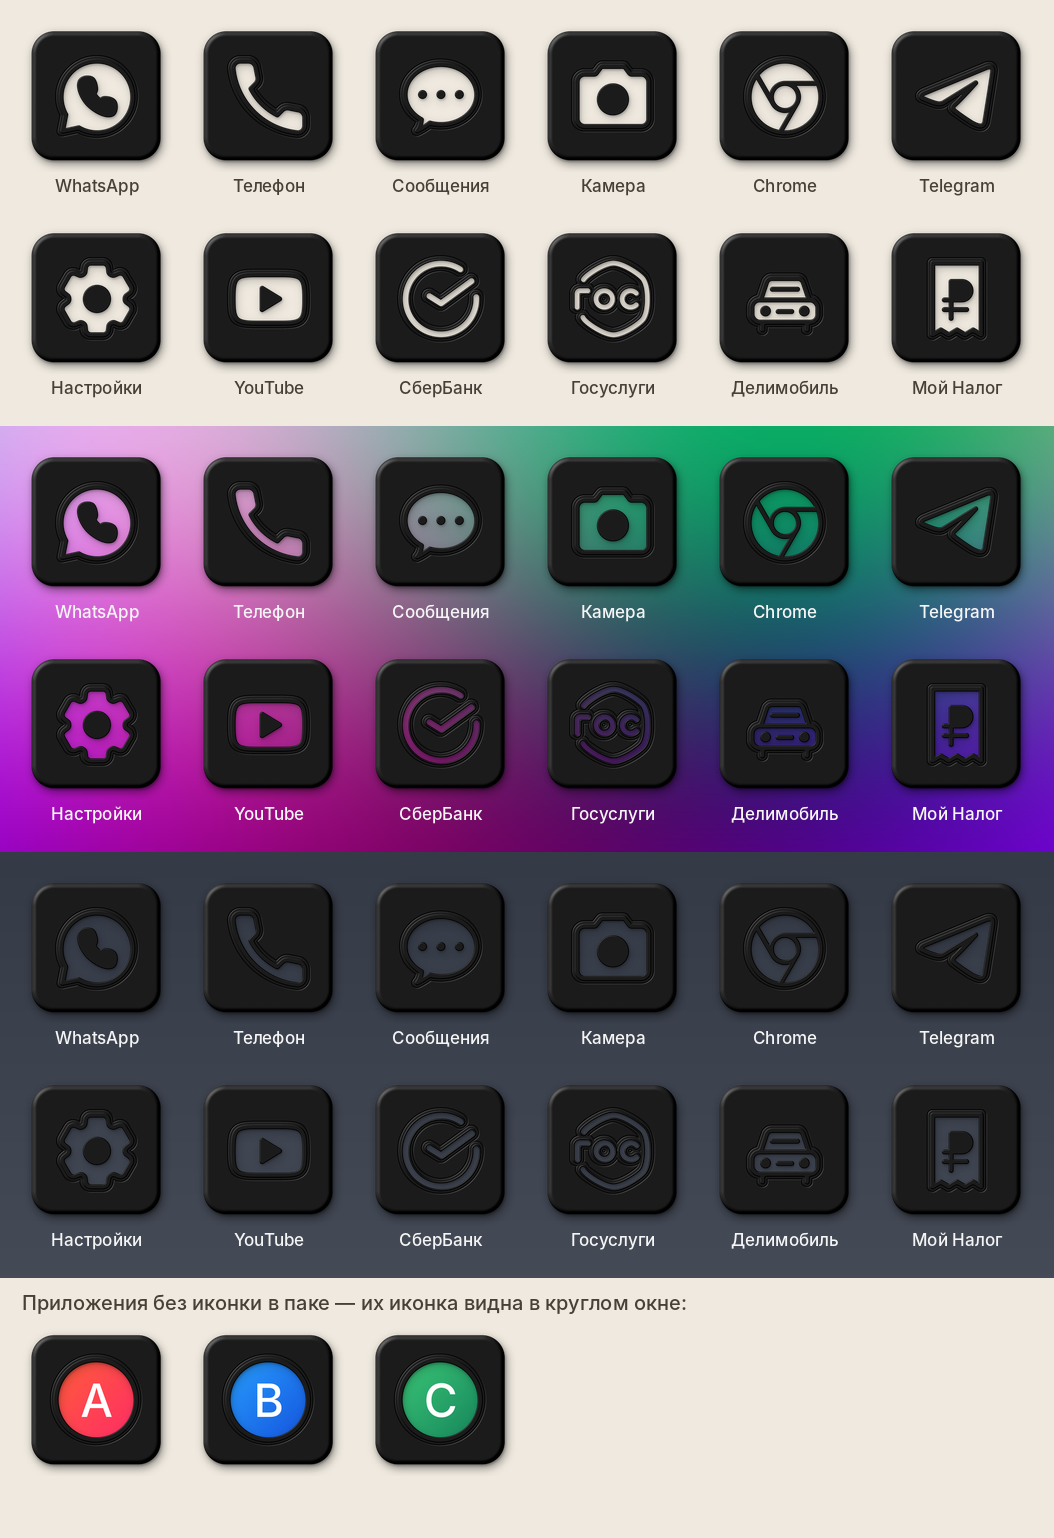
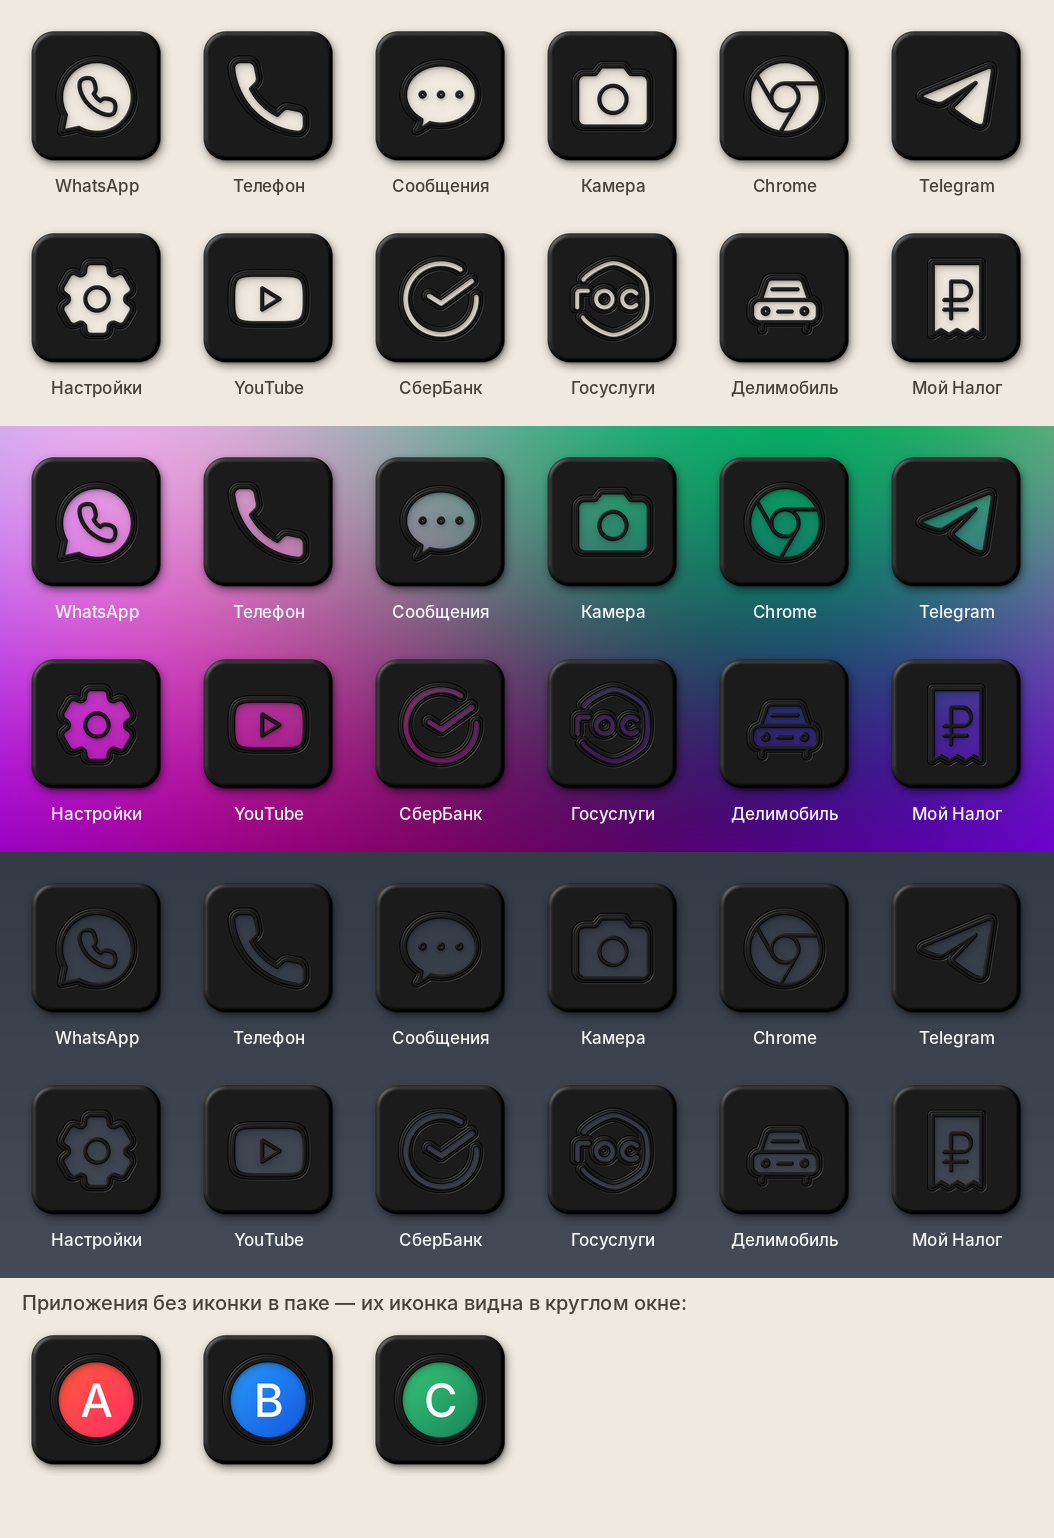
Noir: thinner lines, nested shapes as thin see-through outlines [skip ci]
Line weight 0.7 of Lawnicons; every enclosed area is a hole, so the
WhatsApp handset, camera lens, gear centre etc. are thin outlines
instead of solid blobs. Stencil threshold 0.5 hole/stroke.

Claude-Session: https://claude.ai/code/session_01TTZygDqZcvFS4wFVRUaD4t

diff --git a/tools/style_noir.py b/tools/style_noir.py
@@ -1,24 +1,20 @@
 """"Noir" style: a thick black matte slab with the glyph cut through it.
 
-Modelled on the owner's reference (black tile, see-through bubble, black
-handset floating in it): the glyph's enclosed areas are holes through the slab,
-so the wallpaper shows through them; the outline around a hole is raised black,
-shapes nested inside a hole are raised black again, and a thin engraved groove
+Modelled on the owner's reference (black tile, see-through bubble, thin black
+handset floating in it): every area the glyph's outlines enclose is a hole
+through the slab, so the wallpaper shows through it; the outlines themselves,
+nested ones included, stay as thin raised black lines, and an engraved groove
 follows the glyph's silhouette.  The slab floats above the wallpaper, so its
 shadow falls outside the tile and, through the holes, on the wallpaper inside.
 
-Lawnicons glyphs are outlines, so holes come from nesting depth: regions
-enclosed by one outline are holes, regions enclosed again inside a hole are
-slab, and so on.  Glyphs without enclosed areas (open strokes, letters) get
-their strokes cut out as a stencil inside a raised rim.
+Glyphs without real enclosed areas (open strokes, lettering with tiny counters)
+get their strokes cut out as a stencil inside a raised rim.
 
 style(svg_text, name, out_size) -> PIL RGBA, plus back()/upon()/mask() for
 apps without an icon (their icon shows through a round window).
 """
 
 from __future__ import annotations
-
-from collections import deque
 
 import numpy as np
 from scipy import ndimage
@@ -29,69 +25,26 @@ BLACK = 27.0
 TILE = dict(half=0.43, r=0.15, cx=CX - 0.006 * S, cy=CY - 0.008 * S)
 
 
-def nesting(g, k=2, thr=0.5):
-    """Background regions of the glyph at odd and at even (>=2) nesting depth."""
-    small = g.reshape(S // k, k, S // k, k).mean(axis=(1, 3)) > thr
-    strokes, ns = ndimage.label(small)
-    bg, nb = ndimage.label(~small)
-    border = np.concatenate([bg[0], bg[-1], bg[:, 0], bg[:, -1]])
-    border = border[border > 0]
-    empty = np.zeros((S, S), bool)
-    if not border.size:
-        return empty, empty
-    outside = np.bincount(border).argmax()
-    adj_b = {b: set() for b in range(1, nb + 1)}
-    adj_s = {s: set() for s in range(1, ns + 1)}
-    H, W = small.shape
-    for b, sl in enumerate(ndimage.find_objects(bg), 1):
-        if sl is None:
-            continue
-        y0, y1 = max(sl[0].start - 3, 0), min(sl[0].stop + 3, H)
-        x0, x1 = max(sl[1].start - 3, 0), min(sl[1].stop + 3, W)
-        sub = bg[y0:y1, x0:x1] == b
-        ring = ndimage.binary_dilation(sub, iterations=2) & ~sub
-        for s in np.unique(strokes[y0:y1, x0:x1][ring]):
-            if s:
-                adj_b[b].add(s)
-                adj_s[s].add(b)
-    depth = {outside: 0}
-    seen = set()
-    q = deque([outside])
-    while q:
-        b = q.popleft()
-        for s in adj_b[b]:
-            if s not in seen:
-                seen.add(s)
-                for b2 in adj_s[s]:
-                    if b2 not in depth:
-                        depth[b2] = depth[b] + 1
-                        q.append(b2)
-    odd = np.isin(bg, [b for b, d in depth.items() if d % 2 == 1])
-    even = np.isin(bg, [b for b, d in depth.items() if d >= 2 and d % 2 == 0])
-    up = lambda m: ndimage.zoom(m.astype(np.uint8), k, order=0)[:S, :S].astype(bool)  # noqa: E731
-    return up(odd), up(even)
-
-
 def sdf(mask_bool):
     d_in = ndimage.distance_transform_edt(mask_bool)
     d_out = ndimage.distance_transform_edt(~mask_bool)
     return blur(np.where(mask_bool, d_in - 0.5, -(d_out - 0.5)), 1.2)
 
 
+STROKE = 0.7   # line weight relative to Lawnicons (thin, like the reference)
+
+
 def _glyph_parts(svg):
-    g = glyph(svg, 0.62, 0.85)
+    g = glyph(svg, 0.62, STROKE)
     gb = g > 0.5
-    odd, even = nesting(g)
-    odd = ndimage.binary_dilation(odd, iterations=3)
-    even = ndimage.binary_dilation(even, iterations=3)
-    sil = ndimage.binary_fill_holes(gb | odd | even)
-    hole = blur(odd.astype(float), 1.0) * (1 - g)
-    island = blur(even.astype(float), 1.0) * (1 - g)
-    if hole.sum() < 0.45 * g.sum():
+    filled = ndimage.binary_fill_holes(gb)
+    inner = ndimage.binary_dilation(filled & ~gb, iterations=3)
+    hole = blur(inner.astype(float), 1.0) * (1 - g)
+    if hole.sum() < 0.5 * g.sum():
         # open strokes or lettering (tiny counters): stencil, strokes cut out inside a raised rim
         rim = cov(sdf(gb) + 0.013 * S)
         return g, np.clip(rim - g, 0, 1), rim > 0.5
-    return hole, np.clip(g + island, 0, 1), sil
+    return hole, g, filled
 
 
 def _porthole():
